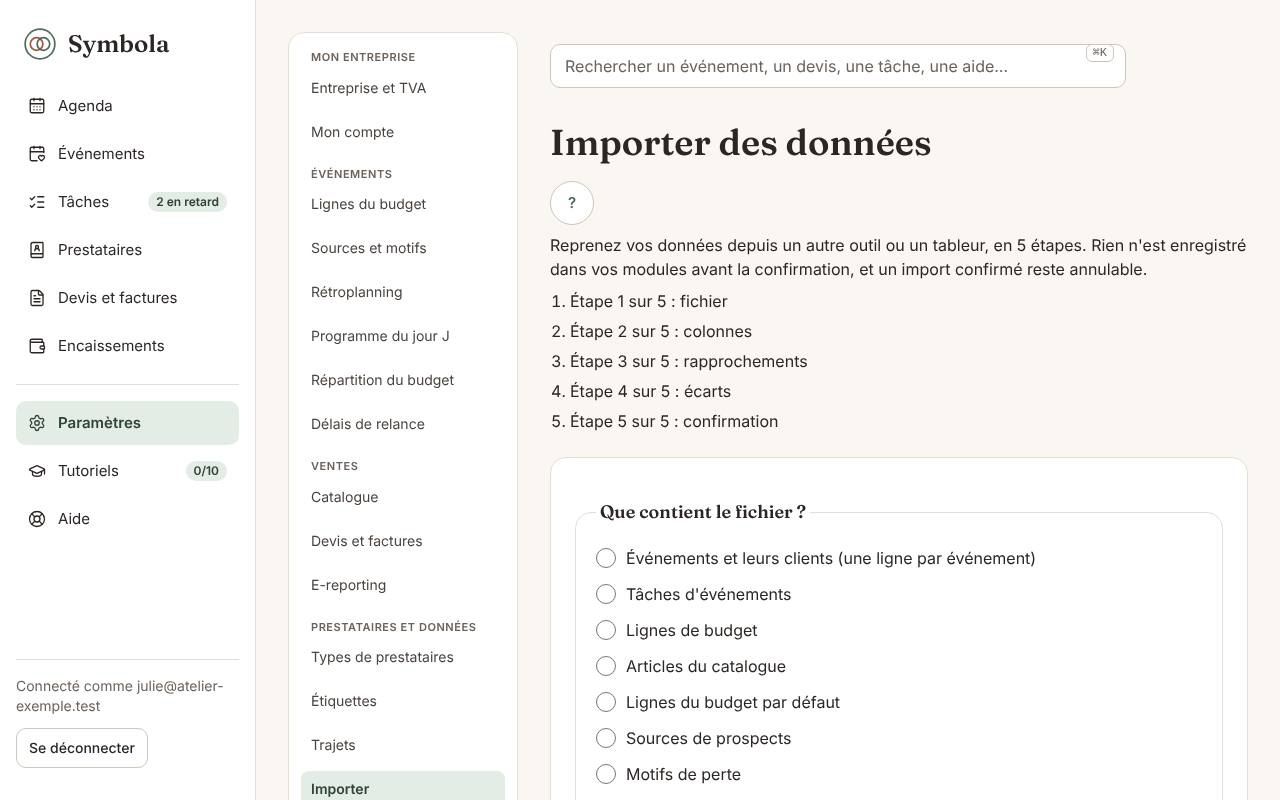
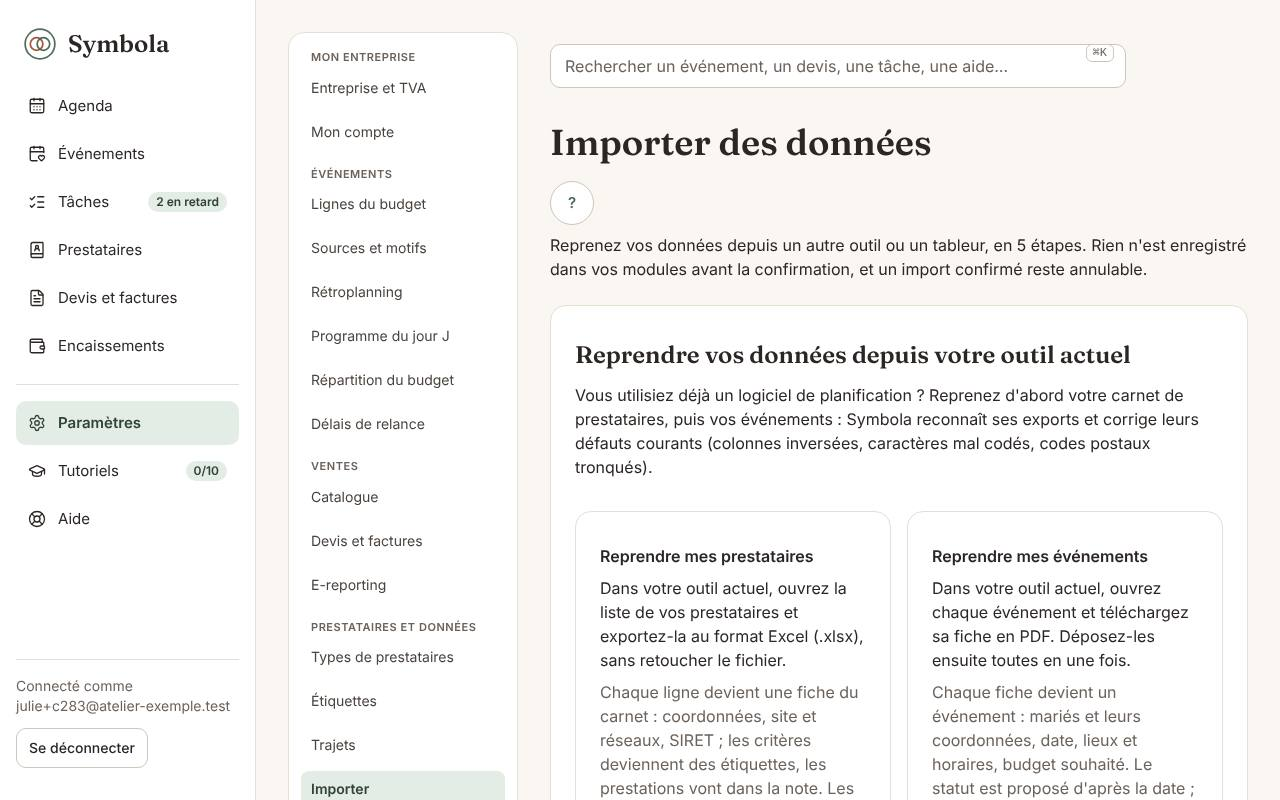
feat(import): IMP-09 reprises depuis l'outil actuel en tête de l'import, tutoriel sur une fiche PDF d'exemple (lot 14d)
La page Importer présente d'abord « Reprendre mes prestataires » et
« Reprendre mes événements » : comment obtenir le fichier dans l'outil
actuel, ce qui sera repris, type d'import présélectionné ; ces deux types
viennent en tête de la liste. Fiche d'exemple entièrement fictive à
télécharger. Le tutoriel « Importer ses événements existants » s'appuie sur
elle (étape faite quand une fiche PDF est déposée). Aide de l'écran réécrite,
capture régénérée (option CAPTURES_ONLY du script de captures). Textes FR/EN,
parcours Playwright ordinateur et 375 px avec axe-core, test d'intégration du
tutoriel, spécification du lot (réalisé 14d).

Claude-Session: https://claude.ai/code/session_01Hf53pRMnTRihf5W35ydS1s

diff --git a/apps/symbola/e2e/imp-09-reprise.spec.ts b/apps/symbola/e2e/imp-09-reprise.spec.ts
@@ -1,0 +1,72 @@
+// Lot 14d (IMP-09) — la page « Importer » présente d'abord les deux reprises
+// depuis l'outil actuel (prestataires, fiches événement), avec la façon
+// d'obtenir le fichier ; une carte présélectionne son type d'import ; la
+// fiche d'exemple (PDF fictif) se télécharge et s'importe. En taille
+// ordinateur et en 375 px, axe-core.
+import { randomUUID } from "node:crypto";
+import AxeBuilder from "@axe-core/playwright";
+import { createAppConnection } from "@symbola/db/client";
+import { createUser } from "@symbola/auth";
+import { expect, test, type Page } from "@playwright/test";
+import * as OTPAuth from "otpauth";
+import { openSettingsTab, readyOrganization } from "./helpers";
+
+async function loginAndSetupMfa(page: Page, email: string, password: string) {
+  await page.goto("/login");
+  await page.getByLabel("E-mail").fill(email);
+  await page.getByLabel("Mot de passe").fill(password);
+  await page.getByRole("button", { name: "Se connecter" }).click();
+  await expect(page).toHaveURL(/\/mfa$/);
+  const provisioningUri = await page.locator("code").textContent();
+  const secret = new URL(provisioningUri!.replace("otpauth://totp/", "https://x/")).searchParams.get("secret")!;
+  await page.getByLabel("Code").fill(new OTPAuth.TOTP({ secret: OTPAuth.Secret.fromBase32(secret) }).generate());
+  await page.getByRole("button", { name: "Valider" }).click();
+  await expect(page).toHaveURL("/");
+}
+
+async function expectNoAxeViolation(page: Page) {
+  const result = await new AxeBuilder({ page }).analyze();
+  expect(result.violations, JSON.stringify(result.violations, null, 2)).toEqual([]);
+}
+
+test("IMP-09 — les reprises depuis l'outil actuel en premier, avec une fiche d'exemple", async ({ page }) => {
+  const email = `planner-imp09-${randomUUID()}@symbola.test`;
+  const password = "mot-de-passe-imp09-e2e";
+  const { sql, db } = createAppConnection();
+  try {
+    const organization = await readyOrganization(db, `Org ${randomUUID()}`);
+    await createUser(db, { organizationId: organization.id, email, password, role: "owner" });
+  } finally {
+    await sql.end();
+  }
+  await loginAndSetupMfa(page, email, password);
+
+  await openSettingsTab(page, "Importer");
+  const takeover = page.getByRole("region", { name: "Reprendre vos données depuis votre outil actuel" });
+  await expect(takeover.getByRole("heading", { level: 3 })).toHaveText(["Reprendre mes prestataires", "Reprendre mes événements"]);
+  await expect(takeover).toContainText("exportez-la au format Excel");
+  await expect(takeover).toContainText("téléchargez sa fiche en PDF");
+  // Dans la liste des types, les deux reprises viennent en premier.
+  const types = page.getByRole("group", { name: "Que contient le fichier ?" }).getByRole("radio");
+  await expect(types.nth(0)).toHaveAccessibleName("Prestataires du carnet (une ligne par prestataire)");
+  await expect(types.nth(1)).toHaveAccessibleName("Fiches événement (PDF, une fiche par événement)");
+  await expectNoAxeViolation(page);
+
+  // La carte des prestataires présélectionne son type.
+  await takeover.getByRole("link", { name: "Importer mes prestataires" }).click();
+  await expect(page.getByLabel("Prestataires du carnet (une ligne par prestataire)")).toBeChecked();
+  await expect(page.getByLabel("Fichier (CSV, Excel .xlsx ou JSON)")).toBeVisible();
+
+  // La fiche d'exemple : un PDF fictif, téléchargé puis importé.
+  const link = takeover.getByRole("link", { name: "Télécharger une fiche d'exemple (PDF fictif) pour essayer" });
+  const response = await page.request.get((await link.getAttribute("href"))!);
+  expect(response.status()).toBe(200);
+  expect(response.headers()["content-type"]).toContain("application/pdf");
+  await takeover.getByRole("link", { name: "Importer mes fiches événement" }).click();
+  await expect(page.getByLabel("Fiches événement (PDF, une fiche par événement)")).toBeChecked();
+  await page.getByLabel("Fiches événement (PDF, une ou plusieurs)").setInputFiles({ name: "fiche-evenement-exemple.pdf", mimeType: "application/pdf", buffer: await response.body() });
+  await page.getByRole("button", { name: "Lire le fichier" }).click();
+  await page.getByRole("link", { name: "Continuer : rapprocher des éléments existants" }).click();
+  await expect(page.getByRole("heading", { name: /Ligne 1 : Léa MARTIN & Hugo BERNARD/ })).toBeVisible();
+  await expectNoAxeViolation(page);
+});

diff --git a/apps/symbola/app/import/page.tsx b/apps/symbola/app/import/page.tsx
@@ -12,7 +12,10 @@ import { NewImportForm } from "./new-import-form";
 
 // Lot 5 — import de données (PRD §7) : étape « fichier » et journal des
 // imports de l'organisation.
-export default async function ImportPage() {
+// Lot 14 (IMP-09) : les deux reprises depuis l'outil actuel, en premier.
+const TAKEOVER_TYPES = ["vendors", "event_sheets"] as const;
+
+export default async function ImportPage({ searchParams }: { searchParams: Promise<{ type?: string }> }) {
   const auth = await getPlannerAuthContext();
   if (auth.status === "unauthenticated") redirect("/login");
   if (auth.status === "mfa_required") redirect("/mfa");
@@ -24,7 +27,11 @@ export default async function ImportPage() {
   const tHelp = await getTranslations("Help");
   const locale = (await getLocale()) as Locale;
 
-  const entityTypes = await availableImportEntityTypes(organizationId);
+  const available = await availableImportEntityTypes(organizationId);
+  const takeovers = TAKEOVER_TYPES.filter((type) => available.includes(type));
+  const entityTypes = [...takeovers, ...available.filter((type) => !(TAKEOVER_TYPES as readonly string[]).includes(type))];
+  const requested = (await searchParams).type;
+  const preselected = entityTypes.find((type) => type === requested) ?? null;
   const { sql, db } = createAppConnection();
   let journal: ImportSummary[];
   let limits: ImportLimits;
@@ -39,11 +46,42 @@ export default async function ImportPage() {
       <h1>{t("title")}</h1>
       <ScreenHelp title={tHelp("importFile.title")} body={tHelp("importFile.body")} />
       <p>{t("intro")}</p>
+      {takeovers.length > 0 ? (
+        <section aria-labelledby="takeover-title" className="takeover">
+          <h2 id="takeover-title">{t("takeoverTitle")}</h2>
+          <p>{t("takeoverIntro")}</p>
+          <div className="takeover-cards">
+            {takeovers.map((type) => (
+              <article key={type} className="card" aria-labelledby={`takeover-${type}`}>
+                <h3 id={`takeover-${type}`}>{t(`takeover.${type}.title`)}</h3>
+                <p>{t(`takeover.${type}.how`)}</p>
+                <p className="muted">{t(`takeover.${type}.what`)}</p>
+                <p>
+                  <Link href={`/import?type=${type}#import-form`}>{t(`takeover.${type}.start`)}</Link>
+                </p>
+                {type === "event_sheets" ? (
+                  <p>
+                    <a href="/aide/exemples/fiche-evenement-exemple.pdf" download>
+                      {t("takeoverExampleSheet")}
+                    </a>
+                  </p>
+                ) : null}
+              </article>
+            ))}
+          </div>
+        </section>
+      ) : null}
       <ImportSteps current={0} />
       {entityTypes.length === 0 ? (
         <p>{t("noModuleAvailable")}</p>
       ) : (
-        <NewImportForm entityTypes={entityTypes} maxSizeLabel={formatFileSize(limits.maxBytes, locale)} maxSheets={limits.maxSheets} />
+        <NewImportForm
+          key={preselected ?? "none"}
+          entityTypes={entityTypes}
+          defaultEntityType={preselected}
+          maxSizeLabel={formatFileSize(limits.maxBytes, locale)}
+          maxSheets={limits.maxSheets}
+        />
       )}
 
       <section aria-labelledby="import-journal">

diff --git a/apps/symbola/lib/help/tutorials.integration.test.ts b/apps/symbola/lib/help/tutorials.integration.test.ts
@@ -3,6 +3,9 @@
 // l'action est vraiment faite (vérifiée par le service du module), et la fin
 // supprime l'exemple — ou garde ce que l'utilisateur choisit de garder.
 import { randomUUID } from "node:crypto";
+import { readFileSync } from "node:fs";
+import { fileURLToPath } from "node:url";
+import { startEventSheetsImport, startImport } from "@/modules/hub/service";
 import { afterAll, describe, expect, it } from "vitest";
 import { createOrganization, createUser } from "@symbola/auth";
 import { createAppConnection } from "@symbola/db/client";
@@ -34,6 +37,20 @@ async function env(): Promise<TutorialEnv> {
 
 // Plusieurs services par test (exemple, vérifications, nettoyage) : 30 s.
 describe("AIDE-06 — Tutoriels en faisant", { timeout: 30_000 }, () => {
+  it("lot 14 (IMP-09) — import : l'étape est faite quand la fiche d'exemple (PDF fictif) est déposée, pas pour un tableau", async () => {
+    const base = await env();
+    const script = TUTORIAL_SCRIPTS.import;
+    const context = await script.setup!(base);
+    const current = { ...base, context };
+    const start = script.steps.find((step) => step.kind === "do")!;
+    expect(await start.check!(current)).toBe(false);
+    await startImport(db, { organizationId: base.organizationId, userId: base.userId, entityType: "events", fileName: "a.csv", bytes: new TextEncoder().encode("Prénom;Date\nLéa;12/06/2027\n") });
+    expect(await start.check!(current)).toBe(false);
+    const example = new Uint8Array(readFileSync(fileURLToPath(new URL("../../public/aide/exemples/fiche-evenement-exemple.pdf", import.meta.url))));
+    expect(await startEventSheetsImport(db, { organizationId: base.organizationId, userId: base.userId, files: [{ fileName: "fiche-evenement-exemple.pdf", bytes: example }] })).toMatchObject({ status: "started" });
+    expect(await start.check!(current)).toBe(true);
+  });
+
   it("fiche d'un événement : exemple fictif d'un autre type que le mariage, étapes vérifiées, exemple supprimé à la fin", async () => {
     const base = await env();
     const script = TUTORIAL_SCRIPTS["event-page"];

diff --git a/apps/symbola/app/import/new-import-form.tsx b/apps/symbola/app/import/new-import-form.tsx
@@ -5,21 +5,32 @@ import { useTranslations } from "next-intl";
 import type { ImportEntityType } from "@/modules/hub/service";
 import { startImportAction, type StartImportFormState } from "./actions";
 
-export function NewImportForm({ entityTypes, maxSizeLabel, maxSheets }: { entityTypes: ImportEntityType[]; maxSizeLabel: string; maxSheets: number }) {
+export function NewImportForm({
+  entityTypes,
+  maxSizeLabel,
+  maxSheets,
+  defaultEntityType = null,
+}: {
+  entityTypes: ImportEntityType[];
+  maxSizeLabel: string;
+  maxSheets: number;
+  // Lot 14 (IMP-09) : type choisi depuis une carte de reprise.
+  defaultEntityType?: ImportEntityType | null;
+}) {
   const t = useTranslations("Import");
   const initialState: StartImportFormState = {};
   const [state, formAction, pending] = useActionState(startImportAction, initialState);
   // Lot 14c (IMP-08) : des fiches événement PDF, plusieurs à la fois.
-  const [entityType, setEntityType] = useState<ImportEntityType | "">("");
+  const [entityType, setEntityType] = useState<ImportEntityType | "">(defaultEntityType ?? "");
   const sheets = entityType === "event_sheets";
 
   return (
-    <form action={formAction}>
+    <form action={formAction} id="import-form">
       <fieldset>
         <legend>{t("entityTypeLegend")}</legend>
         {entityTypes.map((type) => (
           <label key={type}>
-            <input type="radio" name="entityType" value={type} required onChange={() => setEntityType(type)} />
+            <input type="radio" name="entityType" value={type} required defaultChecked={type === defaultEntityType} onChange={() => setEntityType(type)} />
             {t(`entityType.${type}`)}
           </label>
         ))}

diff --git a/apps/symbola/captures/help.captures.ts b/apps/symbola/captures/help.captures.ts
@@ -4,6 +4,8 @@
 // prestataires et budget, puis une capture de chaque écran en 1280 × 800, les
 // repères ouverts sur les écrans qui en ont. Lancer :
 //   pnpm --filter @symbola/app help:captures
+// ou, pour quelques écrans seulement :
+//   CAPTURES_ONLY=importFile pnpm --filter @symbola/app help:captures
 import { randomUUID } from "node:crypto";
 import { mkdirSync } from "node:fs";
 import { join } from "node:path";
@@ -148,7 +150,9 @@ test("captures des écrans pour le centre d'aide", async ({ page }) => {
     budgetDetail: `/budget/${confirmed}`,
     quotesDetail: `/devis/${quoteId}`,
   };
-  for (const screen of HELP_SCREENS.filter((candidate) => candidate.capture)) {
+  // CAPTURES_ONLY=importFile,vendorBook : seulement ces écrans (lot qui n'en change que quelques-uns).
+  const only = (process.env.CAPTURES_ONLY ?? "").split(",").filter(Boolean);
+  for (const screen of HELP_SCREENS.filter((candidate) => candidate.capture && (only.length === 0 || only.includes(candidate.key)))) {
     const path = screen.path ?? dynamic[screen.key];
     if (!path) throw new Error(`pas d'adresse pour la capture ${screen.key}`);
     await page.goto(screen.tour ? `${path}${path.includes("?") ? "&" : "?"}visite=revoir` : path);

diff --git a/apps/symbola/lib/help/tutorials.ts b/apps/symbola/lib/help/tutorials.ts
@@ -216,7 +216,8 @@ export const TUTORIAL_SCRIPTS: Record<TutorialKey, TutorialScript> = {
           const baseline = new Set((env.context.baseline ?? "").split(",").filter(Boolean));
           const { sql, db } = createAppConnection();
           try {
-            return (await listImports(db, env.organizationId)).some((entry) => !baseline.has(entry.id));
+            // Lot 14 (IMP-09) : une fiche événement PDF déposée (la fiche d'exemple).
+            return (await listImports(db, env.organizationId)).some((entry) => !baseline.has(entry.id) && entry.entityType === "event_sheets");
           } finally {
             await sql.end();
           }

diff --git a/apps/symbola/app/globals.css b/apps/symbola/app/globals.css
@@ -720,6 +720,11 @@
     @apply grid gap-6;
     grid-template-columns: repeat(auto-fit, minmax(320px, 1fr));
   }
+  /* Lot 14 (IMP-09) : les deux reprises côte à côte sur ordinateur. */
+  .takeover-cards {
+    @apply grid gap-4;
+    grid-template-columns: repeat(auto-fit, minmax(min(100%, 280px), 1fr));
+  }
 }
 
 @layer components {

diff --git a/docs/lots/lot-14-imports.md b/docs/lots/lot-14-imports.md
@@ -223,3 +223,12 @@ Les six propositions ci-dessous sont **validées telles quelles**.
    à jour d'un événement existant, une valeur vide n'efface rien, lieux et programme ne sont
    ajoutés que s'il n'en a pas. Annulation comme au lot 5 (lieux et programme compris).
 4. **14d** — Aide et parcours (IMP-09), captures.
+   *Réalisé (14d)* : la page « Importer » commence par « Reprendre vos données depuis votre
+   outil actuel », deux cartes (« Reprendre mes prestataires », « Reprendre mes événements »)
+   qui disent comment obtenir le fichier dans l'outil actuel (texte des fichiers de traduction,
+   sans nommer l'outil) et présélectionnent leur type d'import ; ces deux types viennent en tête
+   de la liste. Une fiche d'exemple entièrement fictive (`public/aide/exemples/`, copie de la
+   fiche du corpus) se télécharge depuis la carte des événements. Le tutoriel « Importer ses
+   événements existants » s'appuie sur elle : son étape est faite quand une fiche PDF est
+   déposée (un tableau ne suffit plus). Aide de l'écran Importer réécrite, capture régénérée
+   (`CAPTURES_ONLY=importFile`, nouvelle option du script de captures).
